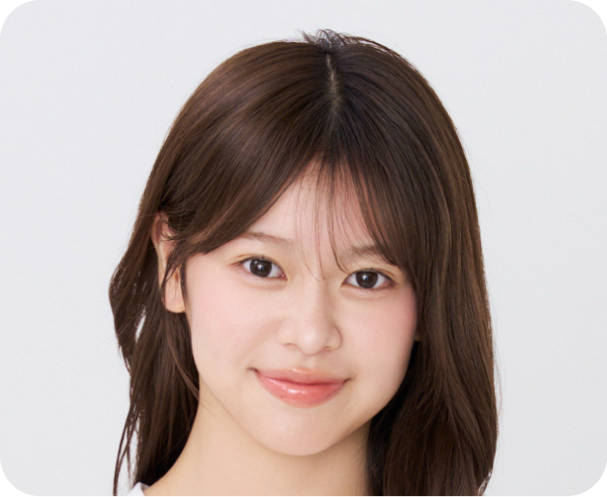
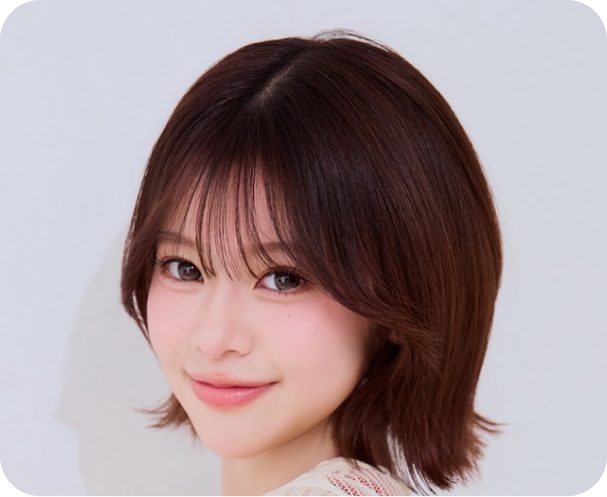
TGCの画像の一部を修正

diff --git a/src/components/SpecialStageTgcBlock.tsx b/src/components/SpecialStageTgcBlock.tsx
@@ -53,6 +53,14 @@ function TgcModelCard({ model }: { model: SpecialStageModel }) {
           className={`object-contain ${model.imageSp ? "hidden lg:block" : ""}`}
           sizes="(max-width: 1024px) 45vw, 250px"
         />
+        {model.imageCredit ? (
+          <p
+            className="pointer-events-none absolute inset-x-0 bottom-2 px-3 text-center text-[8px] font-medium leading-none text-foreground [text-shadow:1px_0_0_#fff,-1px_0_0_#fff,0_1px_0_#fff,0_-1px_0_#fff] lg:bottom-3 lg:px-4 lg:text-right lg:text-[10px]"
+            aria-hidden="true"
+          >
+            {model.imageCredit}
+          </p>
+        ) : null}
       </div>
 
       {model.name ? (

diff --git a/src/lib/specialStages.ts b/src/lib/specialStages.ts
@@ -5,6 +5,7 @@ export type SpecialStageModel = {
   image?: string;
   imageSp?: string;
   imageAlt?: string;
+  imageCredit?: string;
   comingSoon?: boolean;
   tall?: boolean;
   noBackground?: boolean;
